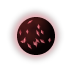
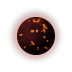
Redraw life world 6 (green, brown, small deserts), mineral world 5 (lava pools) and lighten mineral world 6
Claude-Session: https://claude.ai/code/session_01DRKpqnCyrZwnZLKGJij4TG

diff --git a/tools/make_planet_types.py b/tools/make_planet_types.py
@@ -20,10 +20,10 @@ and drawn fresh:
     planet-dead3.png     dusty brown-grey world with dark basins and a rayed crater
     planet-life4.png     jungle: emerald forest, small lakes and rivers
     planet-life5.png     archipelago: turquoise seas, small sandy islands
-    planet-life6.png     alien life: violet flora round deep blue seas
+    planet-life6.png     green continents, brown uplands, small deserts
     planet-mineral4.png  iron world: rusty plains glittering with ore
-    planet-mineral5.png  crystal world: dark rock with glowing red crystals
-    planet-mineral6.png  volcanic world: black basalt, calderas, lava flows
+    planet-mineral5.png  pool world: dark rock pocked with small lava pools
+    planet-mineral6.png  volcanic world: grey-brown basalt, calderas, lava flows
 
     tools/make_planet_types.py [--out ADDON_DIR]
 
@@ -374,18 +374,24 @@ def life_world5(rng):
 
 
 def life_world6(rng):
-    """Alien life: violet and magenta flora round deep blue seas."""
+    """Green continents with brown uplands and small yellow deserts, in
+    blue seas."""
     nx, ny, nz, inside = sphere_coords()
     n = HEX * SS
     land = noise(rng, n, base=4, octaves=6)
-    coast = np.quantile(land[inside], 0.45)
-    sea = ramp(np.clip((coast - land) / 0.3, 0, 1), [(40, 70, 150), (24, 44, 120), (16, 26, 90)])
-    flora = ramp(noise(rng, n, base=7), [(70, 30, 90), (110, 44, 120), (160, 60, 140), (190, 96, 150)])
+    coast = np.quantile(land[inside], 0.3)
+    sea = ramp(np.clip((coast - land) / 0.3, 0, 1), [(40, 110, 175), (26, 78, 155), (18, 52, 125)])
+    rgb = ramp(noise(rng, n, base=7), [(46, 110, 44), (70, 136, 54), (96, 150, 64)])
+    up = np.clip((land - coast - 0.12) * 8, 0, 0.8)[..., None]            # brown uplands inland
+    rgb = rgb * (1 - up) + np.array([118, 94, 60], np.float32) * up
+    dry = noise(rng, n, base=9, octaves=4)
+    desert = np.clip((dry - np.quantile(dry[inside], 0.8)) * 20, 0, 1)[..., None]
+    rgb = rgb * (1 - desert) + np.array([212, 190, 120], np.float32) * desert
     m = np.clip((land - coast) * 40, 0, 1)[..., None]
-    rgb = sea * (1 - m) + flora * m
-    cloud = np.clip((noise(rng, n, base=6, octaves=6) - 0.68) * 3, 0, 0.6)[..., None]
-    rgb = rgb * (1 - cloud) + np.array([236, 226, 246], np.float32) * cloud
-    return textured_sphere(rgb, glow=(170, 120, 230), atmo=(200, 160, 255))
+    rgb = sea * (1 - m) + rgb * m
+    cloud = np.clip((noise(rng, n, base=6, octaves=6) - 0.7) * 3, 0, 0.55)[..., None]
+    rgb = rgb * (1 - cloud) + np.array([240, 244, 250], np.float32) * cloud
+    return textured_sphere(rgb, glow=(120, 180, 255), atmo=(150, 200, 255))
 
 
 def mineral_world4(rng):
@@ -406,42 +412,28 @@ def mineral_world4(rng):
 
 
 def mineral_world5(rng):
-    """Crystal world: dark red rock studded with glowing rose-red crystals."""
+    """Pool world: dark red rock pocked with many small pools of lava."""
     nx, ny, nz, inside = sphere_coords()
     n = HEX * SS
     rgb = ramp(noise(rng, n, base=6, octaves=6), [(30, 10, 12), (52, 16, 18), (74, 24, 24), (92, 32, 28)])
     s = shade(nx, ny, nz)
     rgb = rgb * s[..., None]
-    yy, xx = np.mgrid[0:n, 0:n].astype(np.float32)
-    glow = np.zeros((n, n), np.float32)
-    for _ in range(14):                                 # single crystals
-        while True:
-            u, v = rng.uniform(-0.9, 0.9, 2)
-            if u * u + v * v < 0.75:
-                break
-        ox, oy = (CX + u * R) * SS, (CY + v * R) * SS
-        a = rng.uniform(0, np.pi)
-        ln, wd = rng.uniform(12, 20), rng.uniform(5, 8)
-        dx, dy = xx - ox, yy - oy
-        along = dx * np.cos(a) + dy * np.sin(a)
-        across = -dx * np.sin(a) + dy * np.cos(a)
-        shard = np.clip(1 - np.abs(along) / ln - np.abs(across) / wd, 0, 1)
-        # one face lit, one in shadow
-        face = np.where(across > 0, 1.0, 0.65)
-        glow = np.maximum(glow, np.clip(shard * 3, 0, 1) * face)
+    pools = noise(rng, n, base=22, octaves=2)
+    edge = np.quantile(pools[inside], 0.84)
+    glow = np.clip((pools - edge) / 0.08, 0, 1)        # many small lava pools
     glow *= limb_fade(nx, ny)
-    crystal = ramp(glow, [(120, 20, 40), (220, 60, 80), (255, 150, 160)])
+    crystal = ramp(glow, [(130, 26, 8), (210, 66, 14), (245, 120, 30)])
     g = glow[..., None]
     rgb = rgb * (1 - g) + crystal * (0.7 + 0.3 * s)[..., None] * g
-    return textured_sphere(rgb, glow=(220, 60, 80), lit=True)
+    return textured_sphere(rgb, glow=(220, 60, 40), lit=True)
 
 
 def mineral_world6(rng):
-    """Volcanic world: black basalt with a few glowing calderas, each
+    """Volcanic world: grey-brown basalt with a few glowing calderas, each
     spilling short orange-red lava flows."""
     nx, ny, nz, inside = sphere_coords()
     n = HEX * SS
-    rgb = ramp(noise(rng, n, base=6, octaves=6), [(22, 16, 16), (38, 26, 24), (56, 38, 32), (70, 48, 40)])
+    rgb = ramp(noise(rng, n, base=6, octaves=6), [(56, 44, 40), (84, 64, 56), (112, 86, 72), (136, 106, 88)])
     s = shade(nx, ny, nz)
     rgb = rgb * s[..., None]
     yy, xx = np.mgrid[0:n, 0:n].astype(np.float32)
